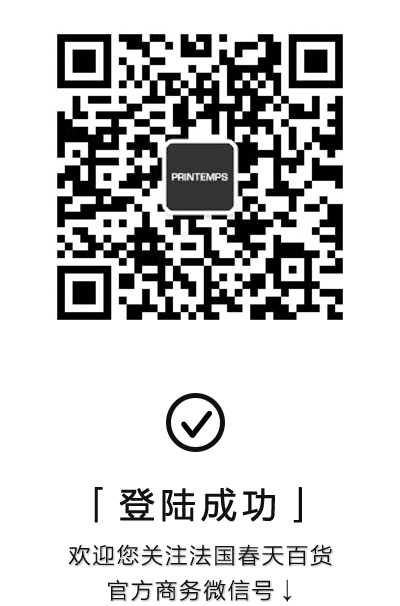
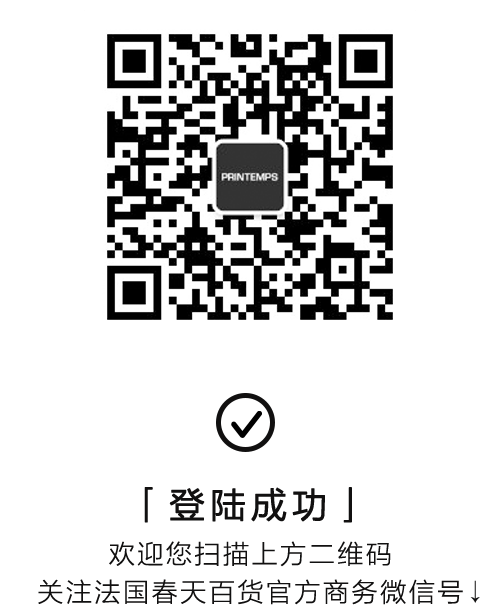
no message

diff --git a/vstyle/css/style.css b/vstyle/css/style.css
@@ -194,13 +194,13 @@ footer .con a img{
 
 /* login */
 .loginContainer{
-	width: 80%;
+	width: 89%;
 	min-height: 70%;
 	background: rgba(255,255,255,0.75);
 	position: absolute;
 	left: 50%;
 	top: 15%;
-	margin: 0 0 0 -40%;
+	margin: 0 0 0 -44.5%;
 }
 
 .login_con{
@@ -212,10 +212,10 @@ footer .con a img{
 .login_tips{
 	font-size: 14px;
 	line-height: 20px;
-	min-height: 90px;
+	min-height: 116px;
 	display: inline-block;
 	width: 100%;
-	margin: 16px 0 0 0;
+	margin: 16px 0 6px 0;
 }
 
 
@@ -625,10 +625,10 @@ footer.personal_footer .con a img{
 }
 
 
-
-
 .login_tips em{
 	width: 100%;
+	text-align: center;
+	padding: 2% 0;
 	/*padding: 0 0 2% 0;*/
 	display: inline-block;
 }
@@ -636,7 +636,7 @@ footer.personal_footer .con a img{
 .login_tips p{
 	width: 100%;
 	display: inline-block;
-	text-align: left;
+	text-align: center;
 	color: #111010;
 	font-size: 12px;
 	line-height:18px;
@@ -649,6 +649,7 @@ footer.personal_footer .con a img{
 .login_tips span{
 	width: 100%;
 	font-size: 12px;
+	text-align: left;
 	display: inline-block;
 	padding: 3px 0;
 	line-height:16px;
@@ -764,6 +765,12 @@ footer.personal_footer .con a img{
 	.login_tips{
 		margin: 4px 0 0 0;
 		height: auto;
+	}
+
+	.login_con{
+		width: 84%;
+		display: inline-block;
+		margin: 12% 0 6% 0;
 	}
 }
 

diff --git a/protected/views/site/pushArticles/question.php b/protected/views/site/pushArticles/question.php
@@ -14,10 +14,12 @@
                     营业时间<br />
                     周一至周六 早上9点35至晚上8点<br />
                     周四营业至晚上8点45<br />
+                    周日特别营业时间请密切关注我们的微信公众号，我们将第一时间通知您。
+
                     法国春天百货卢浮宫分店<br />
                     营业时间<br />
                     周一，周三，周四，周五，周日 早上9点30至晚上8点<br />
-                    周二，周六 早上10点至晚上8点
+                    周二，周六 早上10点至晚上8点<br> 
                 </dd>
             </dl>
         </div>
@@ -31,14 +33,14 @@
             <dl>
                 <dt>A:</dt>
                 <dd>
-                    法国春天百货奥斯曼旗舰店为您提供3000多个国际品牌，其中包括春天百货独家品牌以及汊流买手店Maria Luisa。请<a href="http://printempsb2b.samesamechina.com/site/brand?b=1" target="_blank">点击此处</a>查询完整的品牌目录。<br />
+                    法国春天百货奥斯曼旗舰店为您提供3000多个国际品牌，其中包括春天百货独家品牌以及顶尖买手店Maria Luisa。请<a href="http://printempsb2b.samesamechina.com/site/brand?b=1" target="_blank">点击此处</a>查询完整的品牌目录。<br />
                     法国春天百货卢浮宫分店为您提供一系列的奢侈品配饰、高级腕表及美妆精选品牌。请<a href="http://printempsb2b.samesamechina.com/site/brand?b=2" target="_blank">点击此处</a>查询完整的品牌目录。
                 </dd>
             </dl>
         </div>
 
 
-        <div class="qNode">
+        <!-- <div class="qNode">
             <dl class="qtitle">
                 <dt><b>Q:</b></dt>
                 <dd>我如何到达法国春天百货巴黎奥斯曼旗舰店与卢浮宫分店？</dd>
@@ -62,7 +64,7 @@
 
                 </dd>
             </dl>
-        </div>
+        </div> -->
 
 
         <div class="qNode">
@@ -73,7 +75,7 @@
             <dl>
                 <dt>A:</dt>
                 <dd>
-                    法国春天百货奥斯曼旗舰店为6个餐馆及甜品店，让您购物的同时享受法式美食:<br />
+                    法国春天百货奥斯曼旗舰店为您提供6个餐馆及甜品店，让您购物的同时享受法式美食:<br />
 
                     <p>
                     <em>1.春天百货彩绘穹顶餐厅</em><br />
@@ -91,7 +93,7 @@
 
                     <p>
                     <em>3.Ladurée甜品沙龙</em><br />
-                    大名鼎鼎的Ladurée法式甜品品牌在拿破仑三世风格的沙龙里恭候您的光临，让您尽享精致、甜美、咸淡宜口的休憩时光。您可以在茶点时间品尝这里风味独特的法式甜品玛卡龙 <br />
+                    大名鼎鼎的Ladurée法式甜品品牌在拿破仑三世风格的沙龙里恭候您的光临，让您尽享精致、甜美、咸淡宜口的休憩时光。您可以在茶点时间品尝这里风味独特的法式甜品马卡龙。 <br />
                     电话：+33142824010<br />
                     春天女士时尚馆，0层及1层<br />
                     春天美容家居馆，2层
@@ -99,7 +101,7 @@
 
                     <p>
                     <em>4. Cojean有机食品店</em><br />
-                    在淡蓝色的美食空间里，Cojean为您提供一系列以时令蔬果精心制作的营养均衡的沙拉及热食。沁人心脾的鲜榨果汁，令味觉惊艳的创意沙拉，美味的三明治，还有各式甜品及珍珠奶茶。让您在购物空隙间拥有惬意的放松时光。 <br />
+                    在淡蓝色的美食空间里，Cojean为您提供一系列以时令蔬果精心制作的营养均衡的沙拉及热食。沁人心脾的鲜榨果汁，惊艳味觉的创意沙拉，美味的三明治，还有各式甜品及珍珠奶茶。让您在购物间隙拥有惬意的放松时光。 <br />
                     春天女士时尚馆，-1层<br />
                     </p>
 
@@ -157,7 +159,7 @@
             <dl>
                 <dt>A:</dt>
                 <dd>
-                    法国春天百货暂时不支持微信支付。
+                    很抱歉，法国春天百货暂时不支持微信支付。
                 </dd>
             </dl>
         </div>
@@ -210,7 +212,7 @@
             <dl>
                 <dt>A:</dt>
                 <dd>
-                    法国春天百货有一支专业的中文服务团队为您提供接待及退税服务。电内各大品牌亦有中文服务人员为你提供服务。
+                    法国春天百货有一支专业的中文服务团队为您提供接待及退税服务。店内各大品牌亦有中文服务人员为你提供服务。
                 </dd>
             </dl>
         </div>
@@ -248,12 +250,12 @@
         <div class="qNode">
             <dl class="qtitle">
                 <dt><b>Q:</b></dt>
-                <dd>请问店内有自助取款机吗？</dd>
+                <dd>请问店内有自助提款机吗？</dd>
             </dl>
             <dl>
                 <dt>A:</dt>
                 <dd>
-                    法国春天百货奥斯曼旗舰店在店内设有自助提款机，可以接受银联卡以及不同种类信用卡，方便您需要时直接支取欧元。自助提款机位于女士时尚馆-1层。具体请参考商场地图或者咨询店内服务人员。
+                    法国春天百货奥斯曼旗舰店在店内设有自助提款机，可以接受银联卡以及不同种类的信用卡，方便您需要时直接支取欧元。自助提款机位于女士时尚馆-1层。具体请参考商场地图或者咨询店内服务人员。
                 </dd>
             </dl>
         </div>
@@ -266,7 +268,7 @@
             <dl>
                 <dt>A:</dt>
                 <dd>
-                    为了给您一共一个舒适的购物体验，法国春天百货奥斯曼旗舰店及卢浮宫分店均设有厕所。
+                    为了给您提供一个舒适的购物体验，法国春天百货奥斯曼旗舰店及卢浮宫分店均设有厕所。
                 </dd>
             </dl>
         </div>
@@ -279,7 +281,7 @@
             <dl>
                 <dt>A:</dt>
                 <dd>
-                   法国春天百货为您提供店内免费无线网连接，您只需找到无线网根据指示操作即可连接到互联网。
+                   法国春天百货为您提供店内免费无线网连接，您只需找到无线网(无线网名称：internet-by-printemps)根据指示操作即可连接到互联网。
                 </dd>
             </dl>
         </div>
@@ -287,7 +289,7 @@
         <div class="qNode">
             <dl class="qtitle">
                 <dt><b>Q:</b></dt>
-                <dd>请问如果我在法国春天百货丢失了个人随身物品因该怎么办？</dd>
+                <dd>请问如果我在法国春天百货丢失了个人随身物品应该怎么办？</dd>
             </dl>
             <dl>
                 <dt>A:</dt>
@@ -328,7 +330,7 @@
                    个性化私人试衣间、限量版商品和出自独立设计师之手的奢华精品。<br />
                    以上服务需提前预约。<br />
                    详情及预约请致电 +33142824104<br />
-                   或写电子邮件至 <a href="mailto:personalshopper@printemps.fr">personalshopper@printemps.fr</a> <br />
+                   或发送电子邮件至 <a href="mailto:personalshopper@printemps.fr">personalshopper@printemps.fr</a> <br />
                    春天女士时尚馆，4层
                    </p>
 
@@ -342,13 +344,13 @@
                    - 优先退税 <br />
                    - 商品本地及全球寄送服务 <br />
                    - 私人管家服务 <br />
-                   详情请电邮至 <a href="mailto:guestrelations@printemps.com">guestrelations@printemps.com</a>
+                   详情请发送电子邮件至 <a href="mailto:guestrelations@printemps.com">guestrelations@printemps.com</a>
                    </p>
 
                    <p>
                    <em>免提购物</em><br />
                    为了方便您的购物，我们可以将您挑选的商品集中存放在专属区域。在购物结束时，您可以一次性结款。<br />
-                   详情，请致电 +33142825031<br />
+                   详情请致电 +33142825031<br />
                    春天女士时尚馆，-1层
                 </dd>
             </dl>
@@ -370,7 +372,7 @@
         <div class="qNode">
             <dl class="qtitle">
                 <dt><b>Q:</b></dt>
-                <dd>请问我可以退还在法国春天百货购买的产品吗？</dd>
+                <dd>请问我可以退还在法国春天百货购买的商品么？如何退还？</dd>
             </dl>
             <dl>
                 <dt>A:</dt>
@@ -381,7 +383,7 @@
             </dl>
         </div>
 
-        <div class="qNode">
+        <!-- <div class="qNode">
             <dl class="qtitle">
                 <dt><b>Q:</b></dt>
                 <dd>请问我应该如何退还在法国春天百侯购买的物品？</dd>
@@ -393,7 +395,7 @@
                    详情请咨询店内工作人员。
                 </dd>
             </dl>
-        </div>
+        </div> -->
 
         <div class="qNode">
             <dl class="qtitle">
@@ -457,62 +459,20 @@
                     — 12%退税率，无附加手续费<br />
                     — 您的支付宝账号需要绑定手机号码并且是本人姓名。<br />
                     — 您必须在购买日期三个月之内离开欧盟境内。<br />
-                    — 退税金额将在退税联被收到后 15天左右 <br />
-                    — 汇入您的账户并且您将收到短信通知。
+                    — 退税金额将在退税联被收到后，15天左右汇入您的账号，并且您将收到短信通知。
                     </p>
 
                     <p>
                     <em>重要提示:</em><br />
                     — 退税必须在购物当天办理。<br />
                     — 请提前准备好您的购物小票及护照以便办理退税。<br />
-                    — *所有退税单都必须在欧盟出境国机场扫描退税联(Refund Copy) <br />
-                    — 或在海关盖章后寄出。
+                    — *所有退税单都必须在欧盟出境国机场扫描退税联(Refund Copy)或在海关盖章后寄出。
                     </p>
                 </dd>
             </dl>
         </div>
 
-        <div class="qNode">
-            <dl class="qtitle">
-                <dt><b>Q:</b></dt>
-                <dd>请问退税的税率是多少？</dd>
-            </dl>
-            <dl>
-                <dt>A:</dt>
-                <dd>
-                    在您满足退税条件的前提下，根据不同的退税方式，退税率也会随之变化:<br />
-
-                    <p>
-                    <em>1. 春天百货即时现金退税*</em><br />
-                    — 10.8% 退税率，无附加手续费。<br />
-                    — 您必须在自购买日起21天内离开欧盟境内。<br />
-                    — 您必须提供一张退税护照持有人的、自购买日起有效期超过
-                    5个月的信用卡。
-                    </p>
-                    <p>
-                    <em>2. 信用卡退税*</em><br />
-                    — 12%退税率, 无附加手续费。<br />
-                    — 您必须在购买日期起3个月之内离开欧盟境内。<br />
-                    — 退税金额将在5至6周内汇入您的账户。
-                    </p>
-
-                    <p>
-                    <em>3. 机场现金退税*</em><br />
-                    — 10.8% 退税率，每张退税单外加3.5欧元手续费。<br />
-                    — 您必须在购买日期起3个月之内离开欧盟境内。
-                    </p>
-                    <p>
-                    <em>4. 支付宝退税*</em><br />
-                    — 12%退税率，无附加手续费<br />
-                    — 您的支付宝账号需要绑定手机号码并且是本人姓名。<br />
-                    — 您必须在购买日期三个月之内离开欧盟境内。<br />
-                    — 退税金额将在退税联被收到后 15天左右<br />
-                    — 汇入您的账户并且您将收到短信通知。
-                    </p>
-                </dd>
-            </dl>
-        </div>
-
+        
         <div class="qNode">
             <dl class="qtitle">
                 <dt><b>Q:</b></dt>
@@ -521,7 +481,7 @@
             <dl>
                 <dt>A:</dt>
                 <dd>
-                    法国春天百货每年有2个折扣季: 巴黎冬季打折季在每年年初1-2月份左右。夏季打折季在每年6-7月份左右。
+                    法国春天百货每年有2个折扣季: 巴黎冬季打折季在每年年初1-2月份左右。夏季打折季在每年6-7月份左右。具体请密切关注我们的微信公众号，我们将在第一时间通知您折扣信息。
                 </dd>
             </dl>
         </div>
@@ -534,7 +494,7 @@
             <dl>
                 <dt>A:</dt>
                 <dd>
-                    我们的各大品牌合作伙伴，常年为您提供各种专属春天百货的独家精品。关注我们的社交平台，不定期发现各种创意作品吧。
+                    我们的各大品牌合作伙伴常年为您提供各种专属春天百货的独家精品。关注我们的社交平台，不定期发现各种创意作品吧。
                 </dd>
             </dl>
         </div>

diff --git a/protected/views/site/login.php b/protected/views/site/login.php
@@ -6,21 +6,19 @@
 			<img src="<?php echo Yii::app()->request->baseUrl; ?>/vstyle/imgs/logo.png" width="100%" />
 			<div class="loginframe" style="display:inline-block;">
 				<div class="login_tips">
-					欢迎使用<br />
-                    法国春天百货导游服务账号<br />
-                    <span>请通过您的春天商务编号与<br />
-                    您的姓氏登录，谢谢！</span>
-
+					<b style="font-size:16px;">欢迎关注</b><br />
+					法国春天百货PRINTEMPS商务微信号<br />
+                    <span>此微信号仅用于商务交流，如果您是春天百货的客人，请关注春天百货的官方公众号。如果您是春天百货的商务伙伴，请通过您的春天商务编号与您的姓氏拼音登录，谢谢！</span>
 				</div>
 
 				<div class="login_form">
 					<ul>
 						<li>
-							<p>春天商务编号： </p>
+							<p>春天商务编号：</p>
 							<input type="text" name="code">
 						</li>
 						<li>
-							<p>姓氏：</p>
+							<p>姓氏拼音：</p>
 							<input type="text" name="name">
 						</li>
 					</ul>
@@ -73,9 +71,9 @@
 		$("input").val("");
 		funTips(callbackTips);
 	}
-	function funTips(callBt){
+	function funTips(callBt, _time){
 		$(".login_tips").addClass("error").html(callBt);
-		setTimeout('$(".login_tips").removeClass("error").html("欢迎使用<br />法国春天百货导游服务账号<br />请你通过导游证编号与姓名登录<br />谢谢！");', 6000)
+		setTimeout('$(".login_tips").removeClass("error").html("<b style="font-size:16px;">欢迎关注</b><br />法国春天百货PRINTEMPS商务微信号<br /><span>此微信号仅用于商务交流，如果您是春天百货的客人，请关注春天百货的官方公众号。如果您是春天百货的商务伙伴，请通过您的春天商务编号与您的姓氏拼音登录，谢谢！</span>");', _time)
 	}
 
 	function checkForm(){
@@ -83,9 +81,9 @@
 		var name = $("input[name=name]").val();
 
 		if(codenum == ""){
-			funTips("请输入导游证编号！");
+			funTips("请输入春天商务编号！", "1000");
 		}else if(name == ""){
-			funTips("请输入姓名！");
+			funTips("请输入姓氏拼音！", "1000");
 		}else{
 
 			$.ajax({
@@ -103,11 +101,11 @@
 		    		$("#successTips").css({"display":"inline-block"});
 		    		callbackTips = "验证成功";
 		    	}else{
-		    		callbackTips = "<em>"+data.msg+"</em><p>如需要联系法国春天百货国际部</p><p>请致电：</p><p><a href='tel:+33142825579'>+33 1 42 82 55 79</a> <br /><a href='tel:+33142825580'>+33 1 42 82 55 80</a></p>";
+		    		callbackTips = "<em>很抱歉，登陆失败<br>请重新输入</em><p style='font-size:16px; line-height:22px;'>如需要联系法国春天百货国际部<br>请致电：<a href='tel:+33142825579'>+33 1 42 82 55 79</a> <br /><a href='tel:+33142825580'>+33 1 42 82 55 80</a></p><br>";
 		    	}
 		    	
 				$("input").val("");
-				funTips(callbackTips);
+				funTips(callbackTips, "6700");
 		    })
 			
 		}
